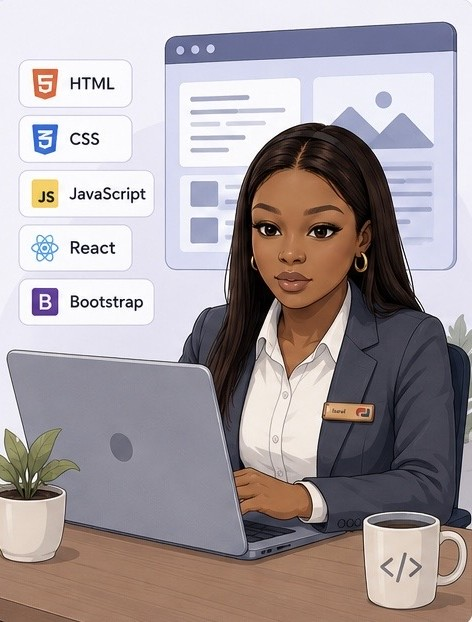
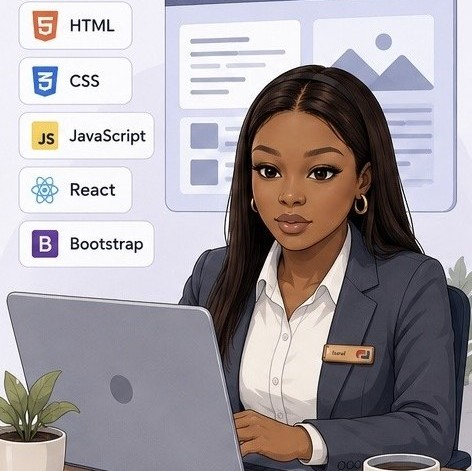
Edited styling to make it fit ui standards, centered and resized images on all pages

diff --git a/css/styles.css b/css/styles.css
@@ -227,3 +227,19 @@ img { max-width: 100%; height: auto; border-radius: 5px; margin: 15px 0; border:
 footer { text-align: center; padding: 20px; margin-top: 40px; background-color: #2d3748; color: #ffffff; border-top: 4px solid #3182ce; }
 
 .project-card { padding: 20px; margin: 20px 0; border: 1px solid #e2e8f0; border-radius: 8px; background-color: #ffffff; }
+
+.hero-banner-img { width: 100%; height: 280px; object-fit: contain; background-color: #e2e8f0; display: block; margin: 20px 0; border-radius: 8px; }
+
+.about-content {text-align: center; }
+
+.about-content .profile-img { display: block; margin: auto; }
+
+.intro { text-align: center; }
+
+.intro article { margin: 30px auto; }
+
+.intro article img { width: 400px; height: 300px; object-fit: cover; display: block; margin: 15px auto; border-radius: 8px; }
+
+.project-card img { width: 400px; height: 250px; object-fit: cover; display: block; margin: 15px 0; }
+
+.project-card {text-align: left; }

diff --git a/index.html b/index.html
@@ -48,7 +48,7 @@
 
             <p>Hello! I'm a passionate web developer building clean, accessible websites.</p>
 
-            <img src="images/hero-image.jpg" alt="Developer working on laptop with code on screen in bright modern office" width="600" height="400">
+            <img src="images/hero-image.jpg" alt="Developer working on laptop with code on screen in bright modern office" class="hero-banner-img">
 
             <a href="projects.html" class="btn">View My Work</a>
 
